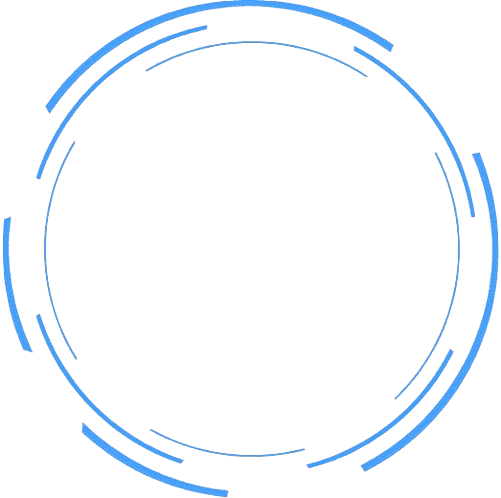
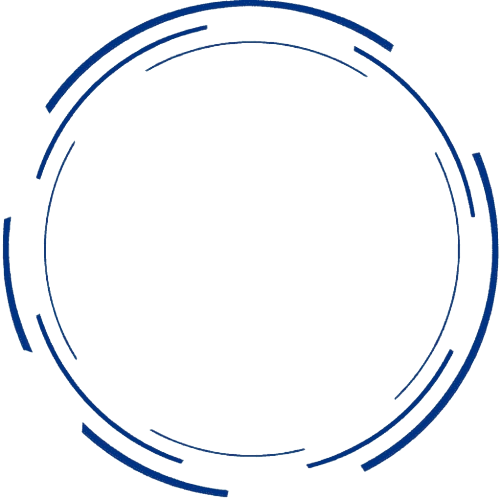
modified: color de reactor y modal con details

diff --git a/index.html b/index.html
@@ -194,10 +194,10 @@
         <div class="text-container">
           <h1 class="section-heading-custom" style="color: #000000;">Flujo del Sistema</h1>
           <hr class="blue-line-custom">
-          <p><br>Para poder aprovechar cada una de las herramientas que el sistema ROD te ofrece, te mostramos un flujo correcto del mismo.</p><br>
+          <p class="texto-flujo"><br>Para poder aprovechar cada una de las herramientas que el sistema ROD te ofrece, te mostramos un flujo correcto del mismo.</p><br>
           <div class="image-container" style="text-align: center;">
             <img src="images/flujosistemamedio.png" alt="Imagen-flujo" class="img-fluid flujo2">
-            <img src="images/flujosistemamedio.png" alt="" class="img-fluid flujo1">
+            <img src="images/flujosistemamedio2.png" alt="" class="img-fluid flujo1">
             <img src="images/circulo4.png" alt="" class="img-fluid flujo3">
             <div class="img-flujo">
               <div class="flujopaciente">
@@ -247,11 +247,19 @@
     <div class="modal-dialog modal-dialog-centered ">
       <div class="modal-content modal-content-transition">
         <div class="modal-body">
-          <img src="images/flujosistema1.png" alt="Descripción de la imagen">
-          <p>Registro de pacientes ilimitados. </p>
+          <button type="button" class="close" data-dismiss="modal" aria-label="Cerrar">
+            <span aria-hidden="true">&times;</span>
+          </button>
+          <img src="images/flujosistema1.png" alt="">
+          <details class="detalles-cuatro">
+            <summary>Registro de Pacientes Ilimitados.</summary>
+                <p>
+                  ROD utiliza el estándar HL7 para poder comunicarse con equipos médicos,
+                  permitiendo organizar los estudios por realizar mediante el protocolo DICOM WORKLIST.
+                </p>
+          </details>
           <!-- texto -->
         </div>
-          <button type="button" class="btn btn-secondary" data-dismiss="modal">Cerrar</button>
       </div>
     </div>
   </div>
@@ -260,11 +268,18 @@
     <div class="modal-dialog modal-dialog-centered ">
       <div class="modal-content modal-content-transition">
         <div class="modal-body">
+          <button type="button" class="close" data-dismiss="modal" aria-label="Cerrar">
+            <span aria-hidden="true">&times;</span>
+          </button>
           <img src="images/flujosistema2.png" alt="Descripción de la imagen">
-          <p>Toma de estudios por modalidad. US, TAC, RM, MG, entre otras.</p>
-          <!-- texto -->
+          <details class="detalles-cuatro">
+            <summary>Toma de estudios por modalidad.</summary>
+                <p>
+                  Los equipos médicos pueden consultar la información y obtener los datos del paciente por medio del protocolo DICOM WORKLIST,
+                   lo que garantiza un mejor ﬂujo de trabajo disminuyendo el error humano.
+                </p>
+          </details>
         </div>
-          <button type="button" class="btn btn-secondary" data-dismiss="modal">Cerrar</button>
       </div>
     </div>
   </div>
@@ -273,11 +288,15 @@
     <div class="modal-dialog modal-dialog-centered ">
       <div class="modal-content modal-content-transition">
         <div class="modal-body">
+          <button type="button" class="close" data-dismiss="modal" aria-label="Cerrar">
+            <span aria-hidden="true">&times;</span>
+          </button>
           <img src="images/flujosistema3.png" alt="Descripción de la imagen">
-          <p>Almacenamiento y distribución de imágenes médicas, servidor local o en la nube. </p>
-          <!-- texto -->
+          <details class="detalles-cuatro">
+            <summary>Almacenamiento y distribución de imágenes médicas.</summary>
+            <p>Una vez tomadas las imágenes médicas, se almacenan en nuestro sistema PACS, ya sea con un  servidor local o en la nube. </p>
+          </details>
         </div>
-          <button type="button" class="btn btn-secondary" data-dismiss="modal">Cerrar</button>
       </div>
     </div>
   </div>
@@ -286,11 +305,17 @@
     <div class="modal-dialog modal-dialog-centered ">
       <div class="modal-content modal-content-transition">
         <div class="modal-body">
+          <button type="button" class="close" data-dismiss="modal" aria-label="Cerrar">
+            <span aria-hidden="true">&times;</span>
+          </button>
           <img src="images/flujosistema4.png" alt="Descripción de la imagen">
-          <p>Interpretación de resultados por profesionales de la salud. </p>
+          <details class="detalles-cuatro">
+            <summary>Interpretación de resultados por profesionales de la salud.</summary>
+            <p>Los médicos pueden realizar su interpretación desde una estación de forma local 
+              (directamente en la red del cliente) o de forma externa de un servidor WEB (desde cualquier parte del mundo). </p>
+          </details>
           <!-- texto -->
         </div>
-          <button type="button" class="btn btn-secondary" data-dismiss="modal">Cerrar</button>
       </div>
     </div>
   </div>
@@ -299,11 +324,15 @@
     <div class="modal-dialog modal-dialog-centered ">
       <div class="modal-content modal-content-transition">
         <div class="modal-body">
+          <button type="button" class="close" data-dismiss="modal" aria-label="Cerrar">
+            <span aria-hidden="true">&times;</span>
+          </button>
           <img src="images/flujosistema5.png" alt="Descripción de la imagen">
-          <p>Entrega y visualización de resultados médicos desde cualquier dispositivo. </p>
-          <!-- texto -->
+          <details class="detalles-cuatro">
+            <summary>Entrega y visualización de resultados médicos.</summary>
+            <p>Los estudios realizados y los resultados son consultables por cualquier usuario o paciente desde cualquier lugar y dispositivo, a través del portal D+CLIC.</p>
+          </details>
         </div>
-          <button type="button" class="btn btn-secondary" data-dismiss="modal">Cerrar</button>
       </div>
     </div>
   </div>
@@ -506,10 +535,10 @@
       <div class="col-lg-3">
         <!-- Agregar aquí los iconos de redes sociales -->
         <i class="fab fa-facebook-square" aria-hidden="true"></i>
-        <a href="https://twitter.com/wss_medical"><i class="fa-brands fa-square-x-twitter" aria-hidden="true"></i></a>
-        <a href="https://www.instagram.com/wss_medical/"><i class="fab fa-instagram-square" aria-hidden="true"></i></a> 
+        <i class="fa-brands fa-square-x-twitter" aria-hidden="true"></i>
+        <i class="fab fa-instagram-square" aria-hidden="true"></i> 
         <i class="fab fa-youtube-square" aria-hidden="true"></i>
-        <a href="https://www.linkedin.com/in/wss-medical-solutions-6265382b9/"><i class="fab fa-linkedin" aria-hidden="true"></i></a>
+        <i class="fab fa-linkedin" aria-hidden="true"></i>
       </div>
     </div>
   </div>

diff --git a/CSS/style.css b/CSS/style.css
@@ -387,10 +387,11 @@ width: 470px;
   font-weight: 700;
 }
 
-#cuartaSeccion p {
+#cuartaSeccion .texto-flujo {
   font-size: 1.5rem;
   font-family: 'Open Sans', sans-serif;
 }
+
 
 #cuartaSeccion {
   text-align: center;
@@ -421,7 +422,7 @@ width: 470px;
   animation-duration: 20s;
   animation-iteration-count: infinite;
   animation-timing-function: linear;
-  filter: hue-rotate(28deg); 
+   
 }
 
 #cuartaSeccion .flujo1 {
@@ -434,7 +435,7 @@ width: 470px;
   animation-iteration-count: infinite;
   animation-timing-function: linear;
   position: absolute;
-  filter: hue-rotate(188deg);
+  
 }
 
 #cuartaSeccion .flujo3{
@@ -469,6 +470,10 @@ width: 470px;
 }
 
 
+#cuartaSeccion .img-flujo p{
+  font-size: 1.5rem;
+  font-family: 'Open Sans', sans-serif;
+}
 
 #cuartaSeccion .img-flujo .flujopaciente {
   width: 100px;
@@ -574,10 +579,10 @@ width: 470px;
 .core-inner {
   width: 250px;
   height: 250px;
-  border: 8px solid #449ddf; /*rgba(23, 63, 114, 1);*/
+  border: 8px solid rgba(23, 63, 114, 1) ; /*#449ddf*/
 /*  box-shadow: 0 0 7px 5px #52fefe, 0 0 18px 12px #52fefe inset; */
   background-color: #ffffff;
-  animation: pulse 0.5s infinite;
+  animation: pulse 0.75s infinite;
 /*   transition: box-shadow 0.3s ease-in-out; */
 box-shadow: 0 0 20px 10px (#ff791b)
             ; /* Sombra difuminada */
@@ -604,9 +609,15 @@ box-shadow: 0 0 20px 10px (#ff791b)
 
 
 .modal-content{
-  color: #ffffff;
-  background-color: rgba(23, 63, 114, 1);
+  border-radius: 30px;
   transition: all 0.3s ease-in-out;
+  box-shadow: 10px 10px 5px 0px  rgba(23, 63, 114, 1);
+}
+
+.modal-title {
+  display: flex;
+  justify-content: center; /* Centra horizontalmente */
+  align-items: center; /* Centra verticalmente */
 }
 
 .modal-content.modal-content-transition {
@@ -622,16 +633,31 @@ box-shadow: 0 0 20px 10px (#ff791b)
 
 .modal-content img{
   width: 50px;
-  height: 50px;
-  filter: invert(100%);
+  height: 50px;  
 }
 
-.modal-content button{
-  background-color: rgb(207, 111, 2);
+.modal-content summary{
+  font-size: 1.5rem;
+  font-family: 'Open Sans', sans-serif;
+  padding-left: 20px;
+  cursor: pointer;
+  list-style: none;
 }
 
-.modal-content button:hover{
-  background-color: rgba(207, 111, 2, 0.521);
+.modal-content .detalles-cuatro p{
+  font-size: 1rem;
+  text-align: center;
+  font-family: 'Open Sans', sans-serif;
+  margin-top: 0; 
+}
+
+.modal-content .detalles-cuatro {
+  overflow: hidden;
+  transition: height 1s ease-out;
+}
+
+.detalles-cuatro summary::-webkit-details-marker {
+  display: none;
 }
 
 /* Quinta seccion */
